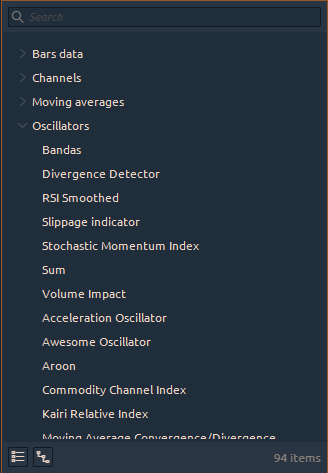
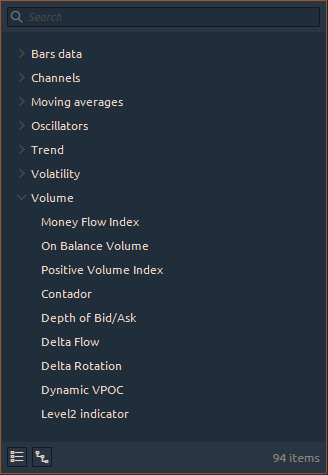
GitBook: [#943] No subject

diff --git a/analytics-panels/chart/technical-indicators/README.md b/analytics-panels/chart/technical-indicators/README.md
@@ -30,7 +30,7 @@ description: >-
 {% endtab %}
 
 {% tab title="Volume" %}
-
+![](<../../../.gitbook/assets/image (353).png>)
 {% endtab %}
 {% endtabs %}
 
